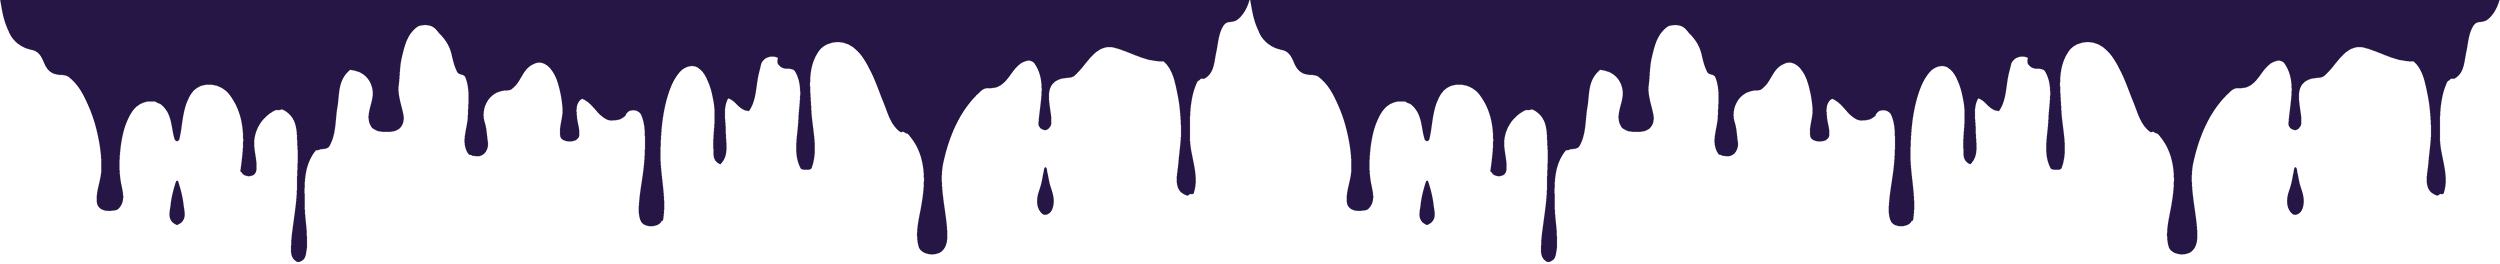
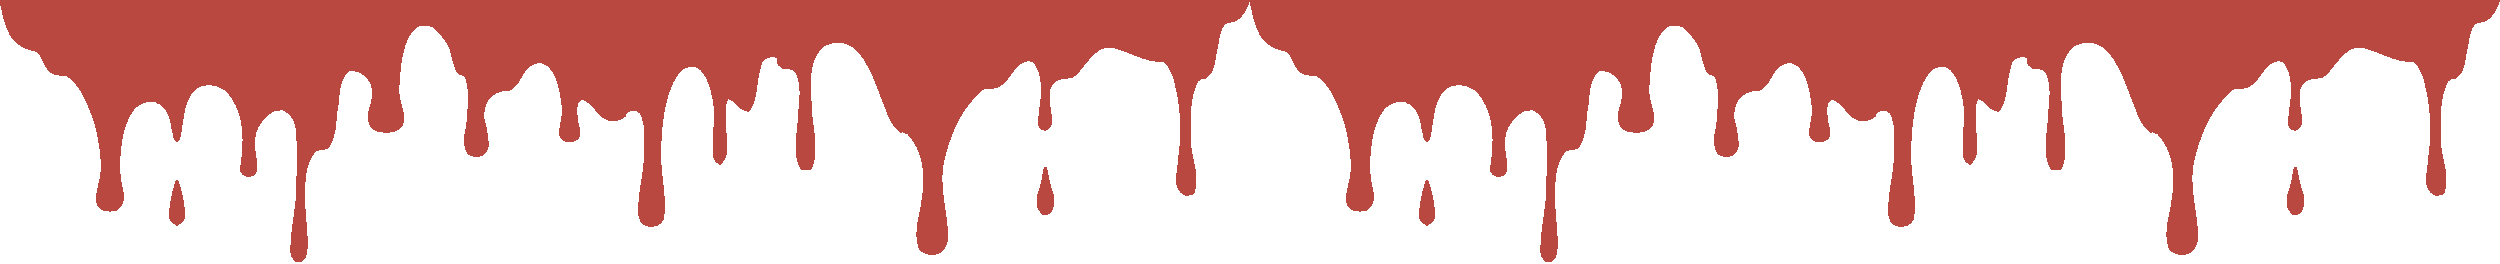
commit

diff --git a/components/Sections/FooterScreen/FooterScreen.module.css b/components/Sections/FooterScreen/FooterScreen.module.css
@@ -1,0 +1,131 @@
+/* FOOTER */
+.footer-container {
+  background-image: url("../../../public/images/drip-reverse.png");
+  background-size: contain;
+  background-color: #b94841;
+  background-repeat: no-repeat;
+  border: none;
+  margin: auto;
+  padding: 10rem 0 3rem 0;
+}
+.footer-content {
+  display: -webkit-box;
+  display: -webkit-flex;
+  display: -ms-flexbox;
+  display: flex;
+  -webkit-box-pack: justify;
+  -webkit-justify-content: space-between;
+  -ms-flex-pack: justify;
+  justify-content: space-between;
+  -webkit-flex-wrap: wrap;
+  -ms-flex-wrap: wrap;
+  flex-wrap: wrap;
+  -webkit-box-align: center;
+  -webkit-align-items: center;
+  -ms-flex-align: center;
+  align-items: center;
+  font-size: 14px;
+  flex-direction: column;
+}
+
+.flex-box {
+  display: -webkit-box;
+  display: -webkit-flex;
+  display: -ms-flexbox;
+  display: flex;
+  -webkit-box-pack: center;
+  -webkit-justify-content: center;
+  -ms-flex-pack: center;
+  justify-content: center;
+  -webkit-box-align: center;
+  -webkit-align-items: center;
+  -ms-flex-align: center;
+  align-items: center;
+}
+
+.footer-bottom {
+  display: flex;
+  flex-direction: row;
+  margin-top: 2rem;
+  padding: 0.5rem 1rem;
+  width: 100%;
+}
+
+.copyright {
+  flex: 1;
+  color: #fff;
+  font-size: 1rem;
+  text-align: left;
+}
+
+.social {
+  flex: 1;
+  display: flex;
+  flex-direction: row;
+  justify-content: center;
+  align-items: center;
+  grid-gap: 2rem;
+}
+
+.text {
+  flex: 1;
+  color: #fff;
+  font-size: 1rem;
+  text-align: right;
+}
+
+.social-icon {
+  width: 2rem;
+  height: 2rem;
+}
+
+.social-icon:hover {
+  transform: scale(1.05);
+  transition-timing-function: ease-in-out;
+  transition: 0.2s;
+}
+
+.monkai-logo {
+  width: 30%;
+}
+
+.monkai-logo:hover {
+  transform: scale(1.05);
+  transition-timing-function: ease-in-out;
+  transition: 0.2s;
+}
+
+@media (min-width: 768px) {
+  .footer-container {
+    padding-top: 15rem;
+  }
+  .copyright {
+    font-size: 1.3rem;
+  }
+  .text {
+    font-size: 1.3rem;
+  }
+}
+
+@media (min-width: 1300px) {
+  .footer-container {
+    padding: 25rem 0 3rem 0;
+  }
+}
+
+@media (min-width: 1600px) {
+  .footer-container {
+    padding-top: 30rem;
+    padding-bottom: 5rem;
+  }
+  .monkai-logo {
+    width: 20%;
+  }
+  .footer-bottom {
+    margin-top: 5rem;
+  }
+  .social-icon {
+    width: 3rem;
+    height: 3rem;
+  }
+}

diff --git a/components/Sections/FooterScreen/index.tsx b/components/Sections/FooterScreen/index.tsx
@@ -1,0 +1,45 @@
+import React from "react";
+import styles from "./FooterScreen.module.css";
+import { FaTwitter, FaDiscord } from "react-icons/fa";
+
+function index() {
+  return (
+    <div className={styles["footer-container"]}>
+      <div className={styles["footer-content"]}>
+        <div className={styles["flex-box"]}>
+          <img
+            src={"/images/monkai_white.png"}
+            alt="monkai"
+            className={styles["monkai-logo"]}
+          />
+        </div>
+        {/* <div className="footer-bottom">
+          <div className="copyright">
+            <p>MONKAI. All Rights Reserved</p>
+          </div>
+
+          <div className="social">
+            <a
+              href="https://twitter.com"
+              target="_blank"
+              rel="noopener noreferrer"
+            >
+              <FaTwitter color="#fff" className="social-icon" />
+            </a>
+            <a
+              href="https://discord.com"
+              target="_blank"
+              rel="noopener noreferrer"
+            >
+              <FaDiscord color="#fff" className="social-icon" />
+            </a>
+          </div>
+
+          <div className="text">Los Angeles, California</div>
+        </div> */}
+      </div>
+    </div>
+  );
+}
+
+export default index;

diff --git a/components/Sections/MintScreen/openSea.tsx b/components/Sections/MintScreen/openSea.tsx
@@ -211,11 +211,17 @@ export const Buy = () => {
       <article
         className="flex flex-col pb-10 bg-white rounded-lg
         text-gray-800 font-openSea items-center"
-        style={{ fontFamily: "Montserrat" }}
+        style={{
+          fontFamily: "Chakra Petch",
+          backgroundColor: "rgba(185,72,65)",
+        }}
       >
         <section id="card-header" className="my-8 text-left mx-auto w-4/5">
-          <h1 className="font-openSea text-gray-800 text-2xl">
-            MINT YOUR METAPIZZA NFT
+          <h1
+            className="text-gray-800 text-2xl"
+            style={{ fontFamily: "Chakra Petch", fontWeight: "bold" }}
+          >
+            CLAIM YOUR MONKAI NFT
           </h1>
           <p>Total supply: TBD</p>
         </section>
@@ -238,7 +244,7 @@ export const Buy = () => {
               {unitPrice} ETH + gas
             </h5>
             <p className="">
-              {saleIsActive ? "Sale is active" : "Live 05/07/2022"}
+              {saleIsActive ? "Sale is active" : "Coming soon..."}
             </p>
           </span>
         </section>

diff --git a/components/BrandsList/index.js b/components/BrandsList/index.js
@@ -1,0 +1,25 @@
+import React from "react";
+import Image from "next/image";
+import styles from "./BrandList.module.css";
+
+function index({ title, src, alt, data }) {
+  return (
+    <div className={styles["container"]}>
+      <h2 className={styles["title"]}>{title}</h2>
+      <div className={styles["list"]}>
+        {data.map((item, index) => (
+          <Image
+            src={item}
+            alt={alt}
+            key={index}
+            width={100}
+            height={100}
+            layout="responsive"
+          />
+        ))}
+      </div>
+    </div>
+  );
+}
+
+export default index;

diff --git a/components/Navbar/Navbar.module.css b/components/Navbar/Navbar.module.css
@@ -4,6 +4,7 @@
   transition: 0.5s;
   z-index: 2;
   color: black;
+  background-color: #b94841;
 }
 
 .nav-container {
@@ -18,7 +19,7 @@
 }
 
 .active {
-  background-color: #fff;
+  background-color: #b94841;
   transition: 1s;
   padding: 0.3rem 1rem;
 }
@@ -39,7 +40,7 @@
   width: 68%;
   left: 0;
   top: 0;
-  background-color: #fff;
+  background-color: #b94841;
   z-index: 2;
   padding-left: 1.5rem;
   padding-top: 4rem;
@@ -47,7 +48,7 @@
 }
 
 .nav-hamburger {
-  background-color: #fff;
+  background-color: #b94841;
   border-radius: 50%;
 }
 

diff --git a/components/Sections/HomeScreen/index.tsx b/components/Sections/HomeScreen/index.tsx
@@ -5,18 +5,7 @@ import styles from "./HomeScreen.module.css";
 import homescreen from "../../../public/images/home.jpg";
 
 function index() {
-  return (
-    <div className={styles["container"]}>
-      <div className={styles["gradient"]}></div>
-      {/* <Image
-        src={homescreen}
-        className={styles["image"]}
-        layout="responsive"
-        height={840}
-        width={1903}
-      /> */}
-    </div>
-  );
+  return <div className={styles["container"]} />;
 }
 
 export default index;

diff --git a/components/Sections/MintScreen/index.tsx b/components/Sections/MintScreen/index.tsx
@@ -4,7 +4,11 @@ import { Section } from "./sections";
 
 function index() {
   return (
-    <Section name="buy" mode="COMPRESSED" style={{ backgroundColor: "#000" }}>
+    <Section
+      name="buy"
+      mode="COMPRESSED"
+      style={{ backgroundColor: "#17161b", paddingTop: "5vw" }}
+    >
       <div className="w-full flex flex-col items-center xl:flex-row justify-evenly">
         <section className="w-full xl:w-[48%] mb-8 xl:mb-0 max-w-xl">
           <img

diff --git a/pages/index.tsx b/pages/index.tsx
@@ -1,5 +1,10 @@
 import styles from "./index.module.css";
-import { HomeScreen, VisionScreen, MintScreen } from "../components/Sections";
+import {
+  HomeScreen,
+  VisionScreen,
+  MintScreen,
+  FooterScreen,
+} from "../components/Sections";
 
 export default function Home() {
   return (
@@ -7,6 +12,7 @@ export default function Home() {
       <HomeScreen />
       <MintScreen />
       <VisionScreen />
+      <FooterScreen />
     </div>
   );
 }

diff --git a/pages/index.module.css b/pages/index.module.css
@@ -1,4 +1,6 @@
+@import url("https://fonts.googleapis.com/css2?family=Chakra+Petch:ital,wght@0,300;0,400;0,500;0,600;0,700;1,300;1,400;1,500;1,600;1,700&family=Montserrat:ital,wght@0,100;0,200;0,300;0,400;0,500;0,600;0,700;0,800;0,900;1,100;1,200;1,300;1,400;1,500;1,600;1,700;1,800;1,900&display=swap");
 .container {
   width: 100%;
+  font-family: "Chakra Petch", sans-serif;
   background-color: transparent;
 }

diff --git a/components/Sections/HomeScreen/HomeScreen.module.css b/components/Sections/HomeScreen/HomeScreen.module.css
@@ -1,10 +1,11 @@
 .container {
   width: 100%;
-  height: 45vw;
-  background-image: url("../../../public/images/home.jpg");
+  height: 10vw;
+  background-image: url("../../../public/images/drip.png");
   background-size: cover;
   background-position: center;
   background-repeat: no-repeat;
+  background-color: #17161b;
 }
 
 .gradient {

diff --git a/components/Sections/MintScreen/button.tsx b/components/Sections/MintScreen/button.tsx
@@ -13,6 +13,7 @@ export default function Button({ onClick, children, disabled }: ButtonProps) {
         className="font-openSea bg-gray-300/95 w-full mt-2"
         disabled={disabled}
         onClick={onClick}
+        style={{ fontFamily: "Chakra Petch", fontStyle: "italic" }}
       >
         {children}
       </button>

diff --git a/components/Sections/index.tsx b/components/Sections/index.tsx
@@ -1,3 +1,4 @@
 export { default as HomeScreen } from "./HomeScreen";
 export { default as VisionScreen } from "./VisionScreen";
 export { default as MintScreen } from "./MintScreen";
+export { default as FooterScreen } from "./FooterScreen";
